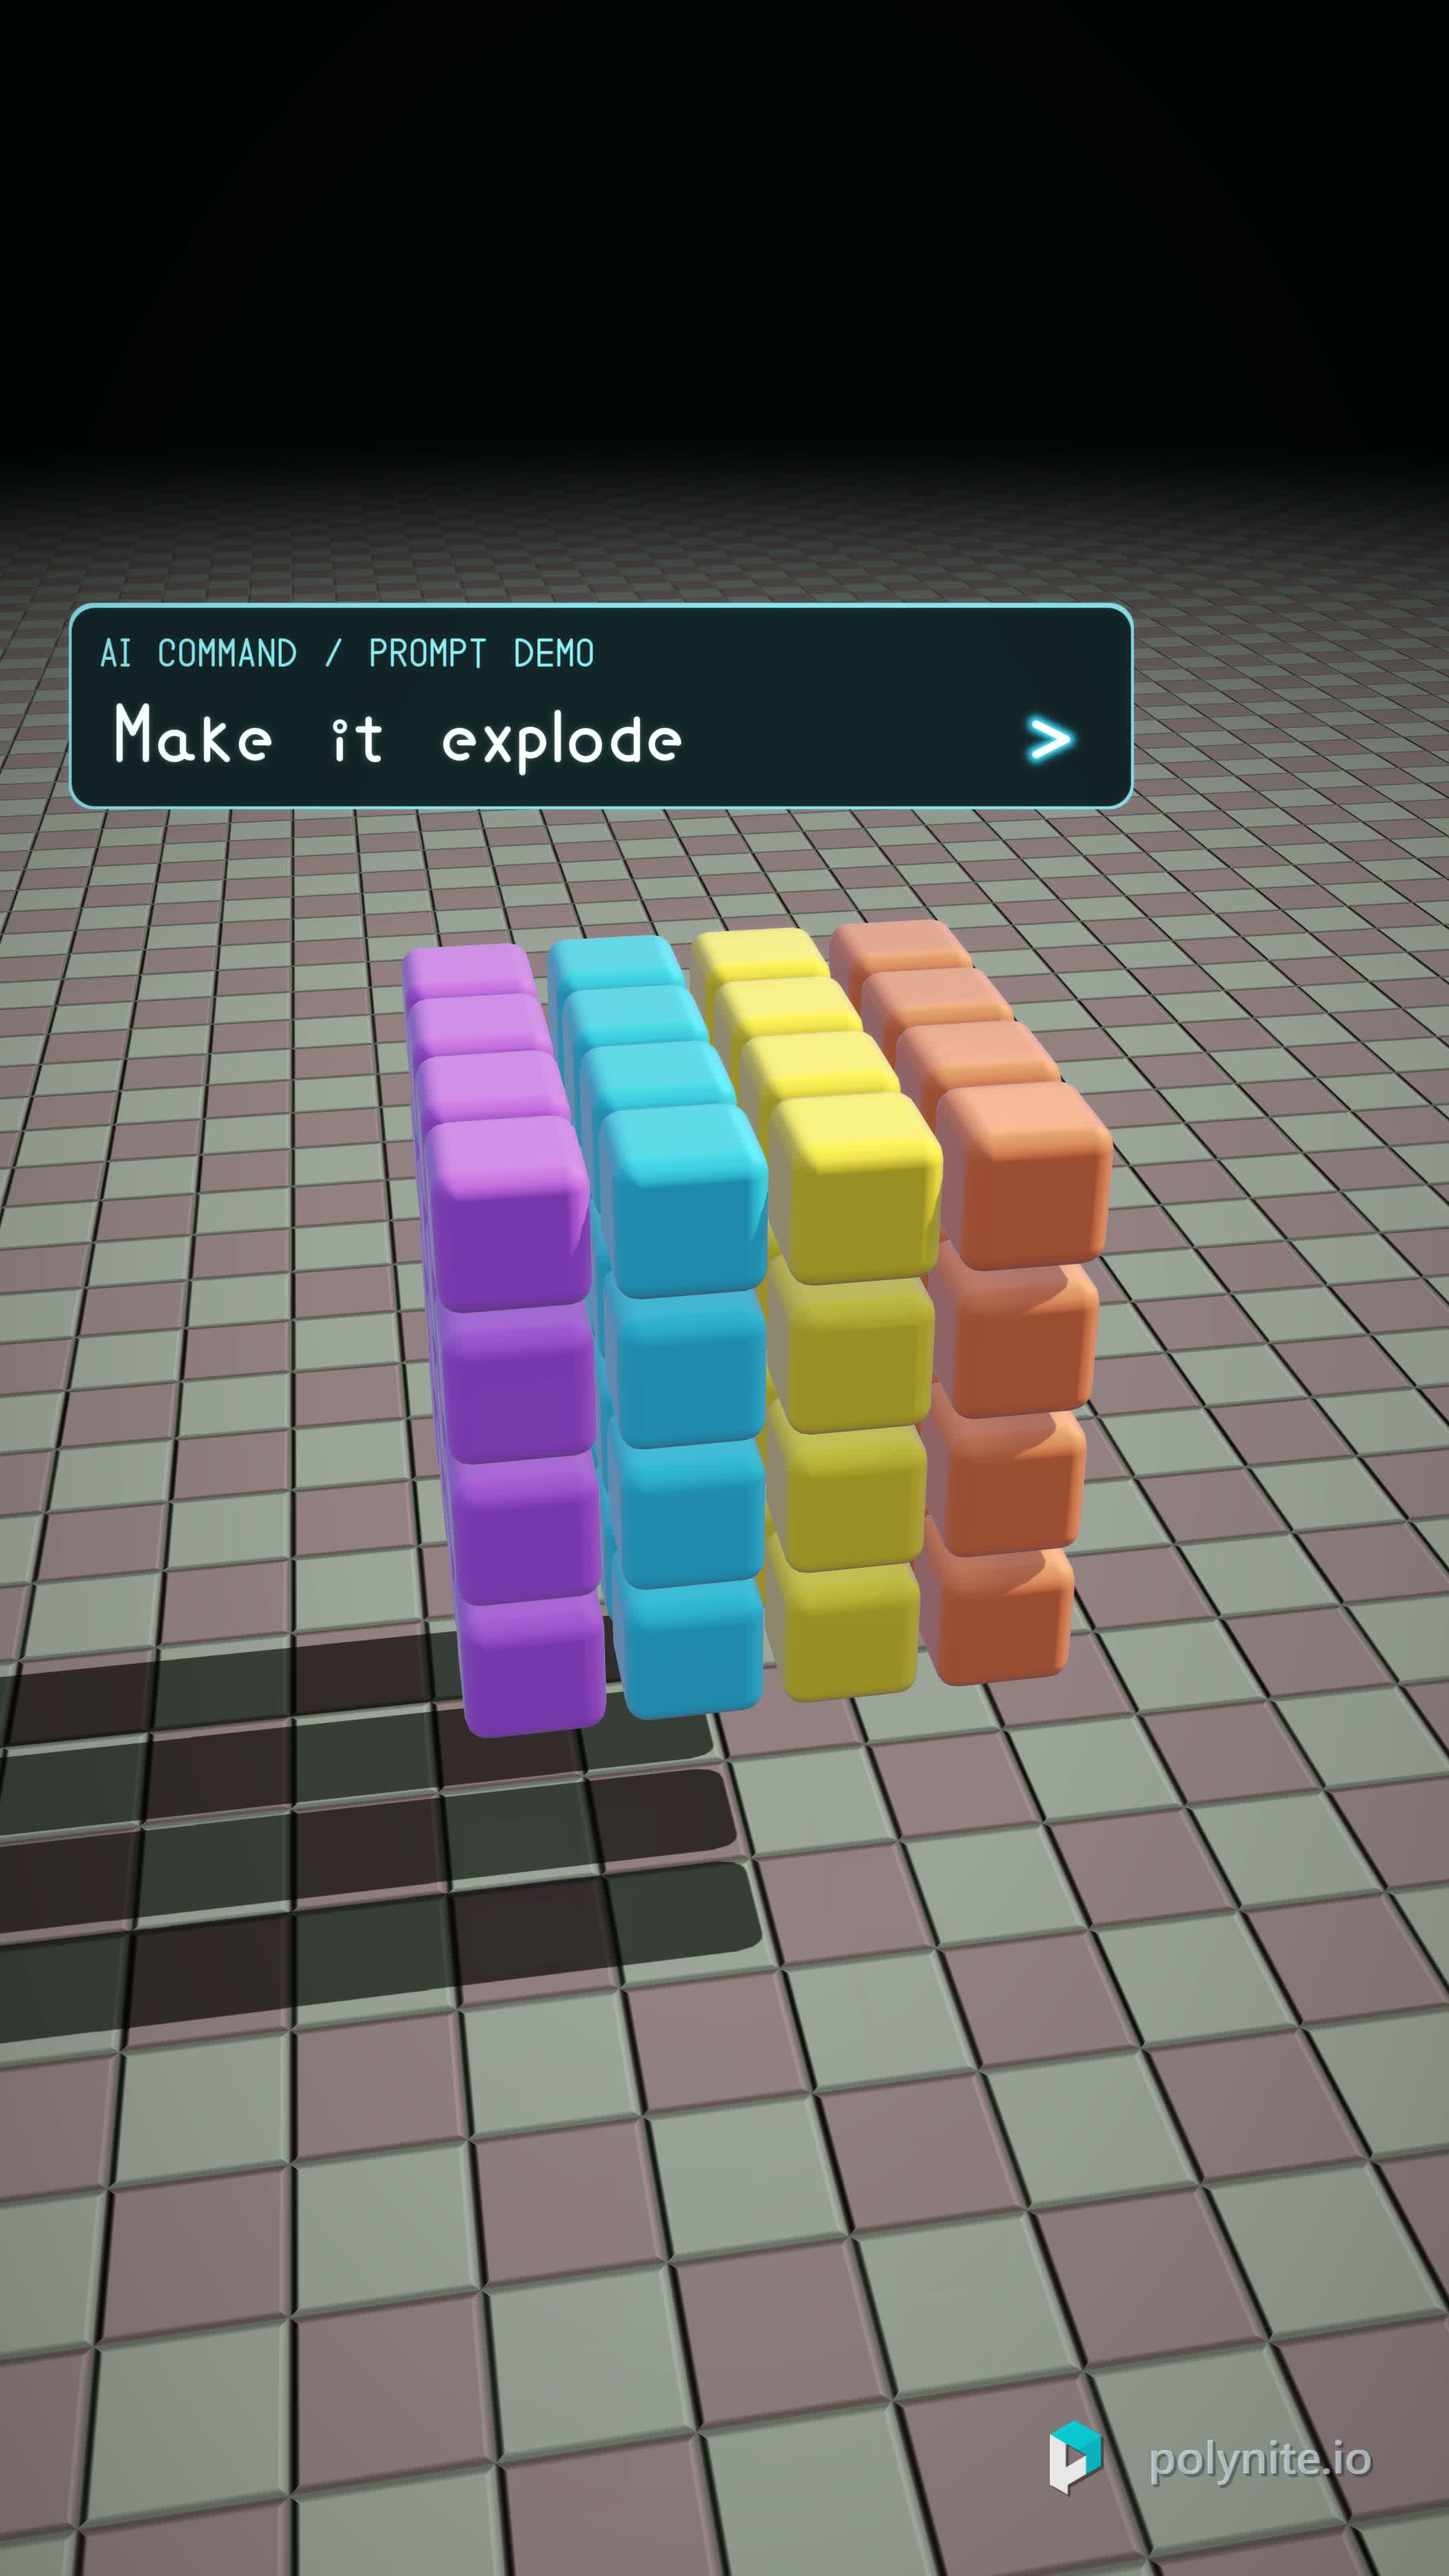
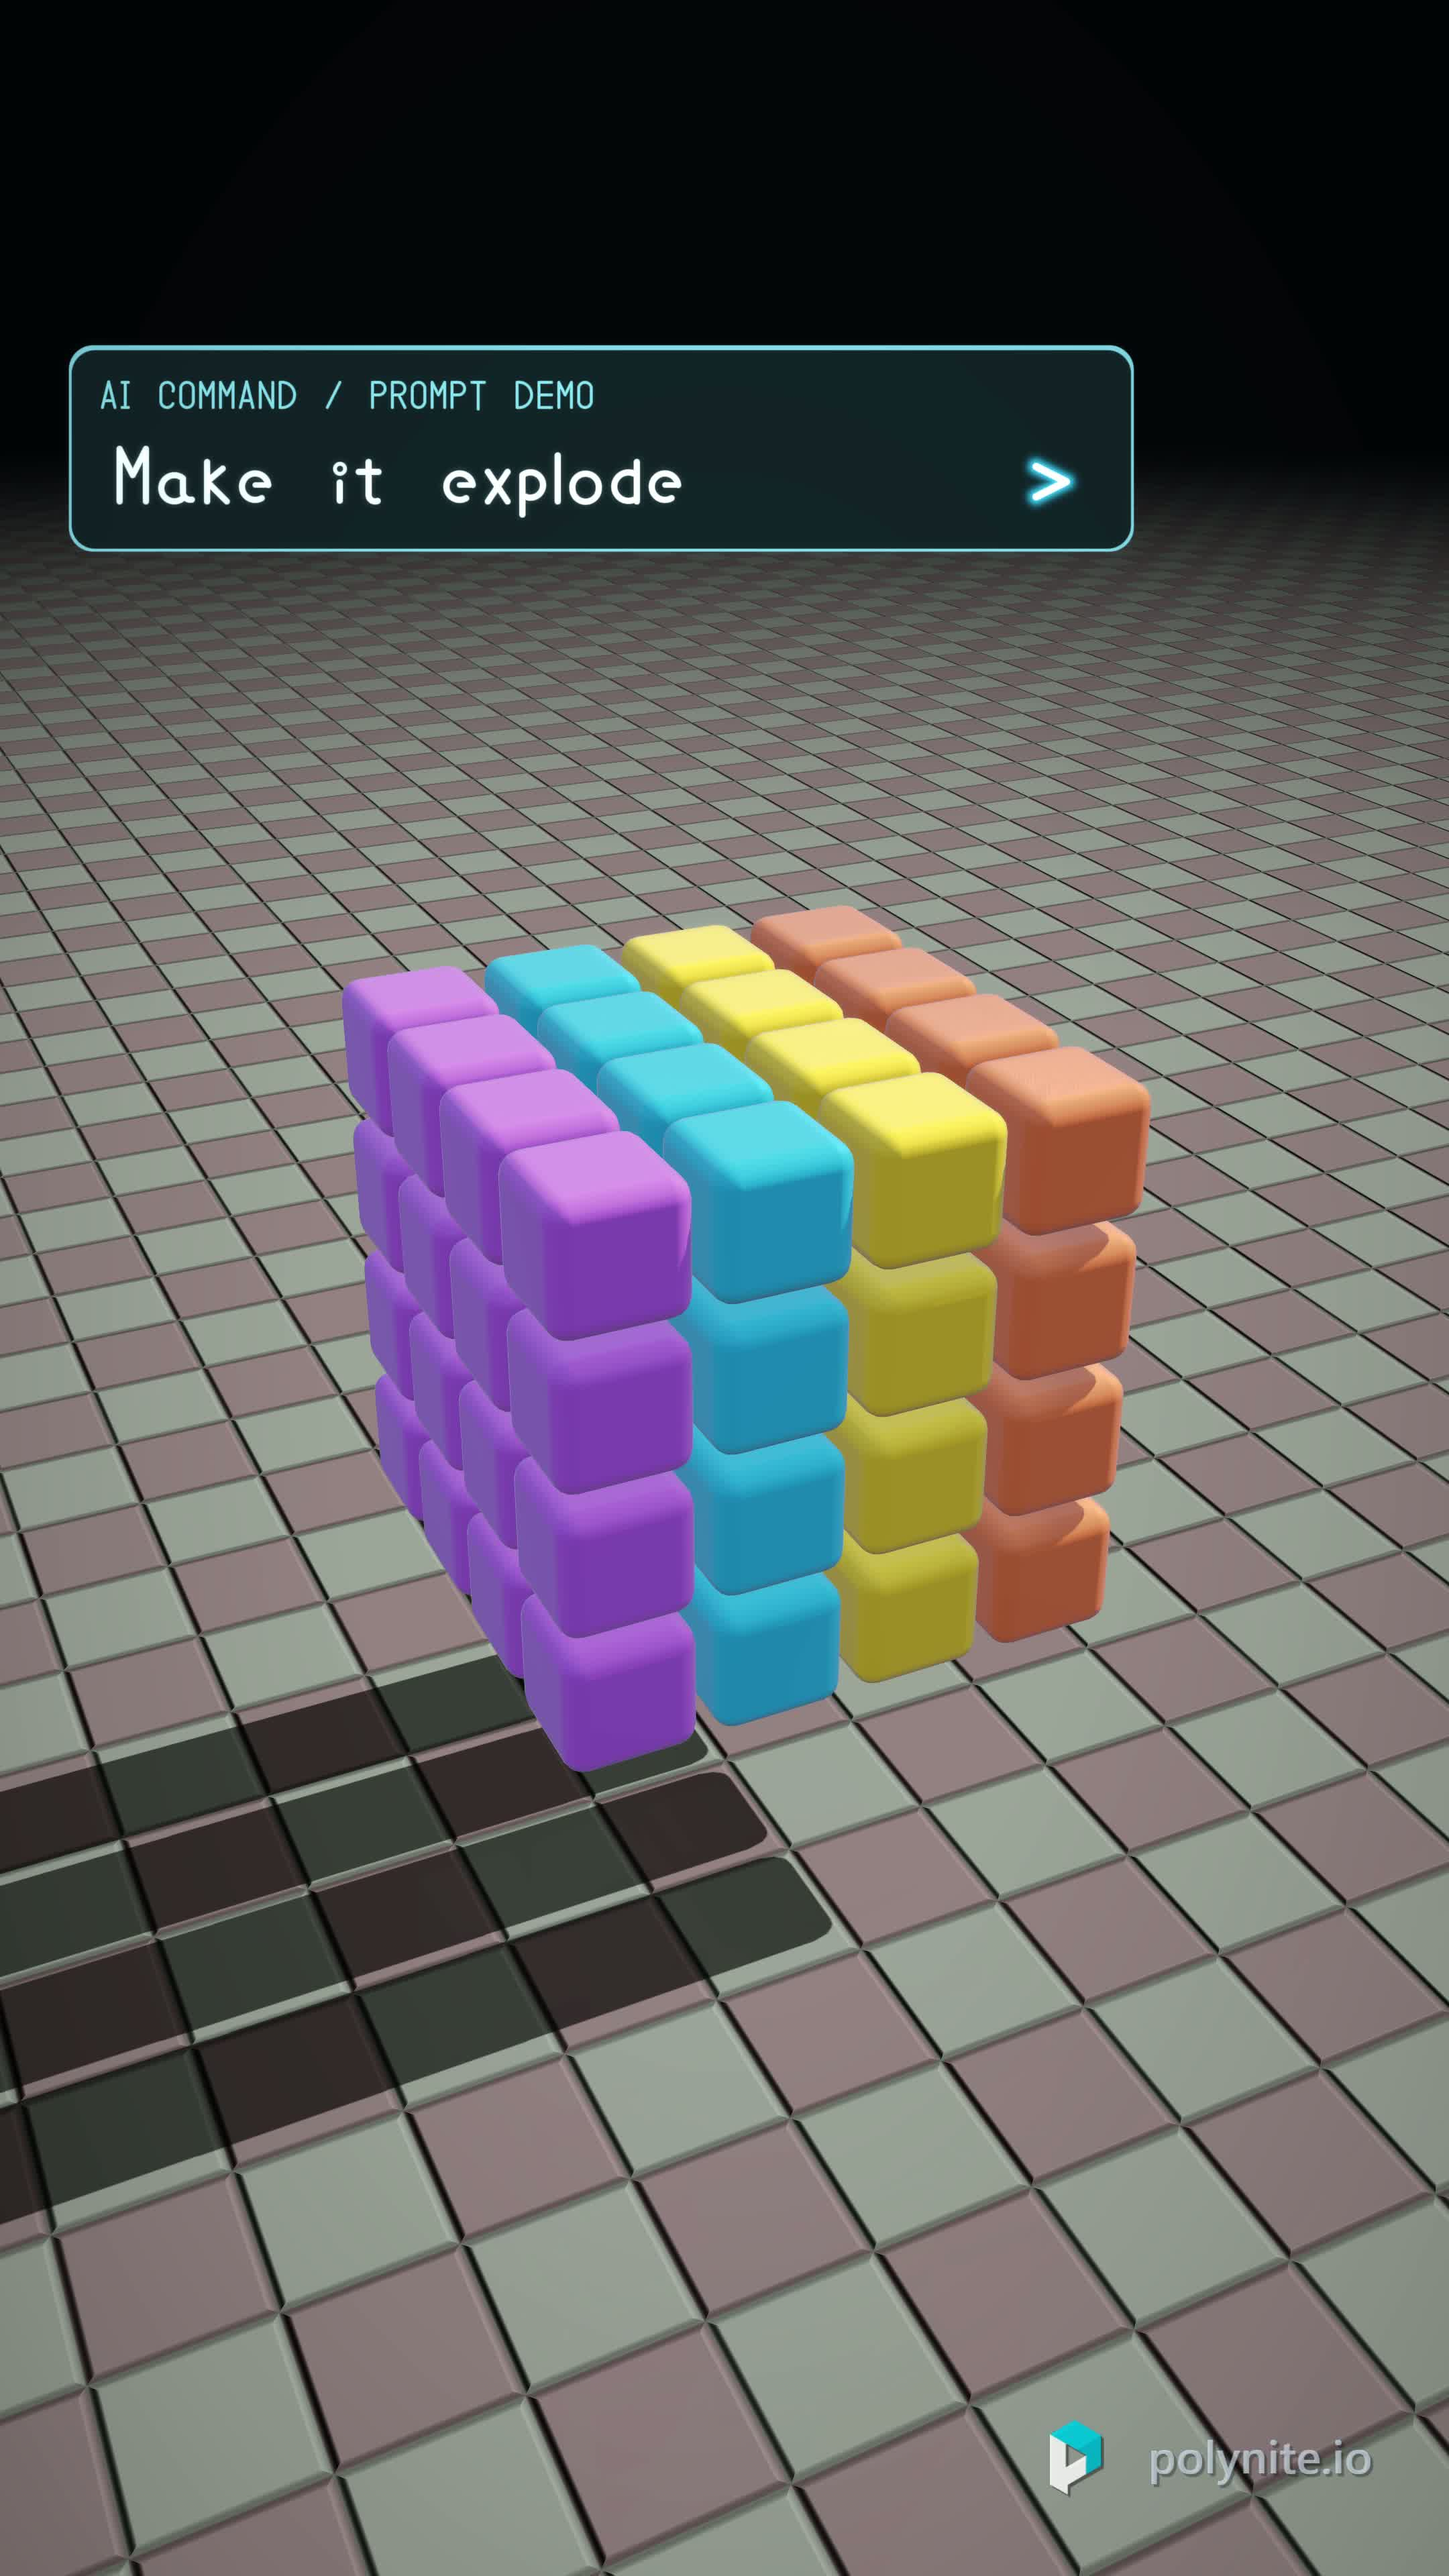
-- Raise portrait header, soften command cues and add suspense thumbnails

diff --git a/render_shorts.py b/render_shorts.py
@@ -49,7 +49,7 @@ try:
   header=A.header_prompt and name=='short' and fmt=='portrait'
   if header:
    for clip in doc['seq']:
-    if clip.get('preset')=='command-input-v1':clip.update(box=[.075,.27,.64,.034],typing_volume=.004,send_volume=.01)
+    if clip.get('preset')=='command-input-v1':clip.update(box=[.075,.17,.64,.034],typing_volume=.002,send_volume=.0045)
   scene_name=fmt+('-header' if header else '')
   if name=='short' and fmt=='landscape':
    doc['initial']['cam_dist']=2.8
@@ -90,6 +90,12 @@ try:
    for t,label in [(1,'build'),(2.1,'prompt'),(3.3,'title'),(4.1,'impact'),(8.3,'signature')] if name=='short' else [(2.2,'title'),(4.4,'impact')]:
     subprocess.run(['ffmpeg','-v','error','-y','-ss',str(t),'-i',str(dest),'-frames:v','1','-vf','scale=960:-2',str(REPORT/(name+'-'+orientation+'-'+label+'.jpg'))],check=True)
    if name=='short':subprocess.run(['ffmpeg','-v','error','-y','-ss','2.4','-i',str(dest),'-frames:v','1',str(OUT/('short-'+orientation+('-header' if header else '')+'-cover.jpg'))],check=True)
+   if header:
+    thumb_dir=OUT/'thumbnails-header';thumb_dir.mkdir(exist_ok=True)
+    frames=[('01-make-it',1.8),('02-command-ready',2.36),('03-explode-title',3.53),('04-burst',4.05),('05-colour-scatter',5.0)]
+    for thumb,t in frames:
+     subprocess.run(['ffmpeg','-v','error','-y','-ss',str(t),'-i',str(dest),'-frames:v','1','-q:v','2',str(thumb_dir/(thumb+'.jpg'))],check=True)
+    (thumb_dir/'frames.json').write_text(json.dumps({'video':dest.name,'frames':[{'file':n+'.jpg','time':t} for n,t in frames]},indent=2))
    report.append({'variant':name,'orientation':orientation,'path':str(dest),'info':info})
   print('Rendered',name,res,flush=True)
 finally:
